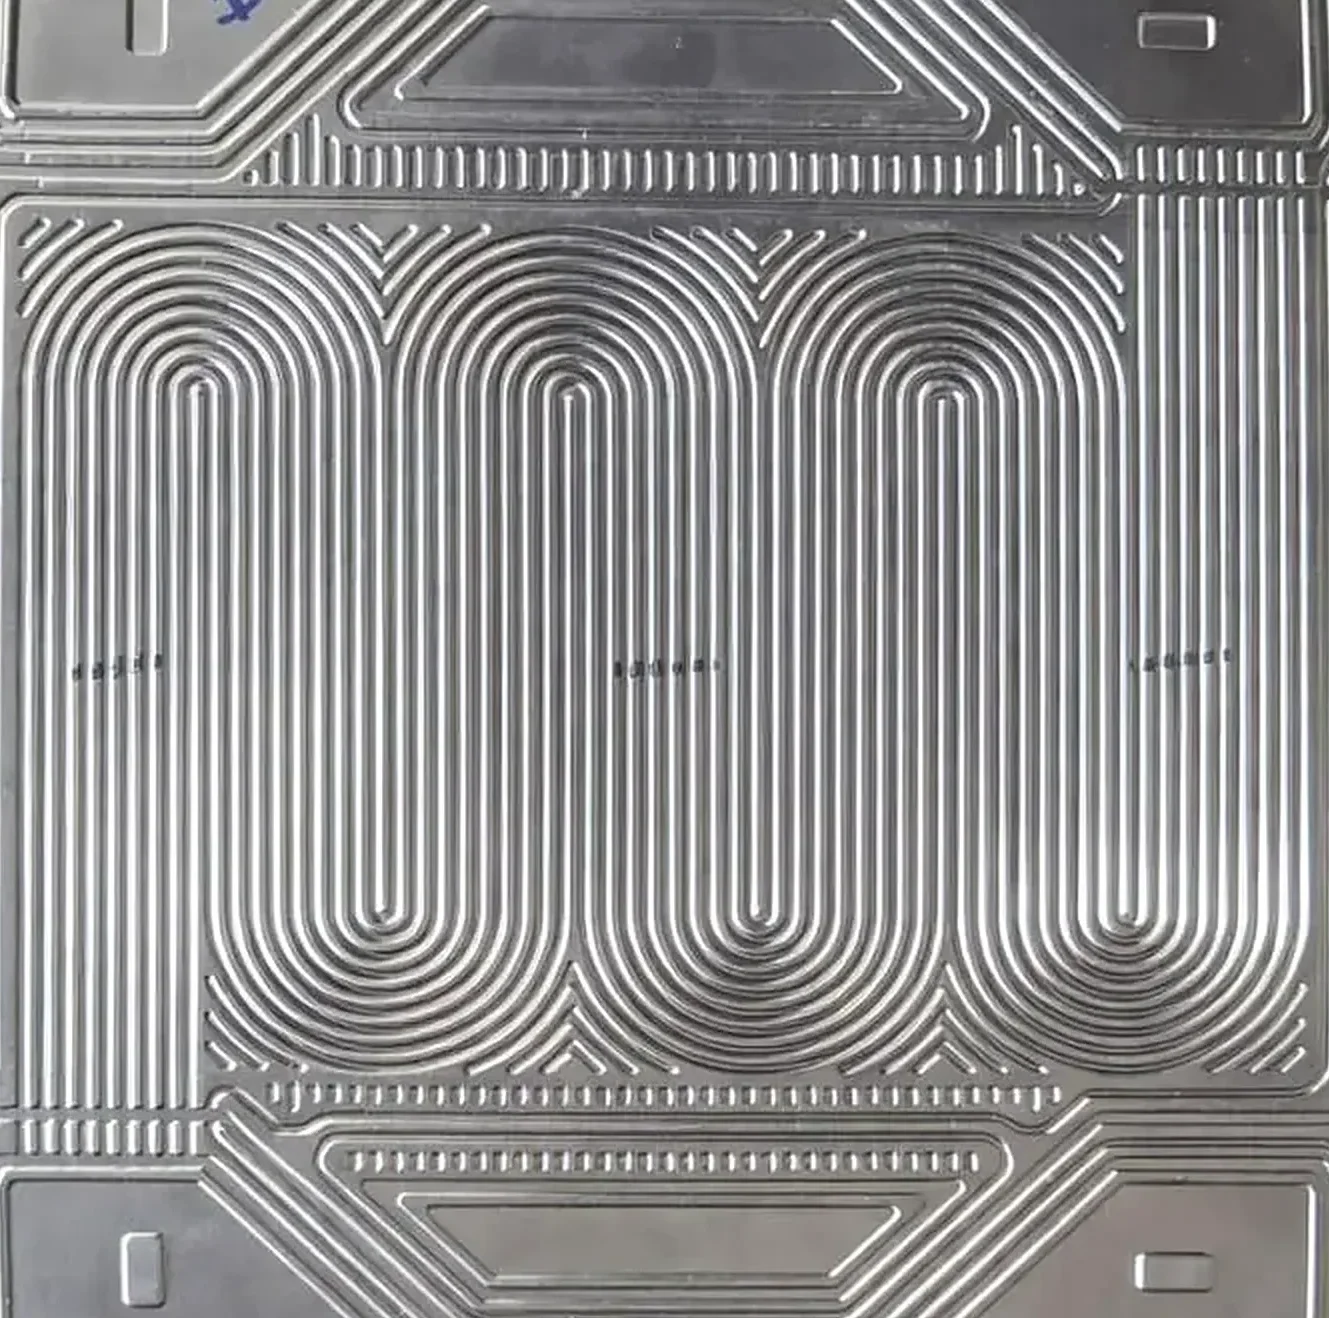
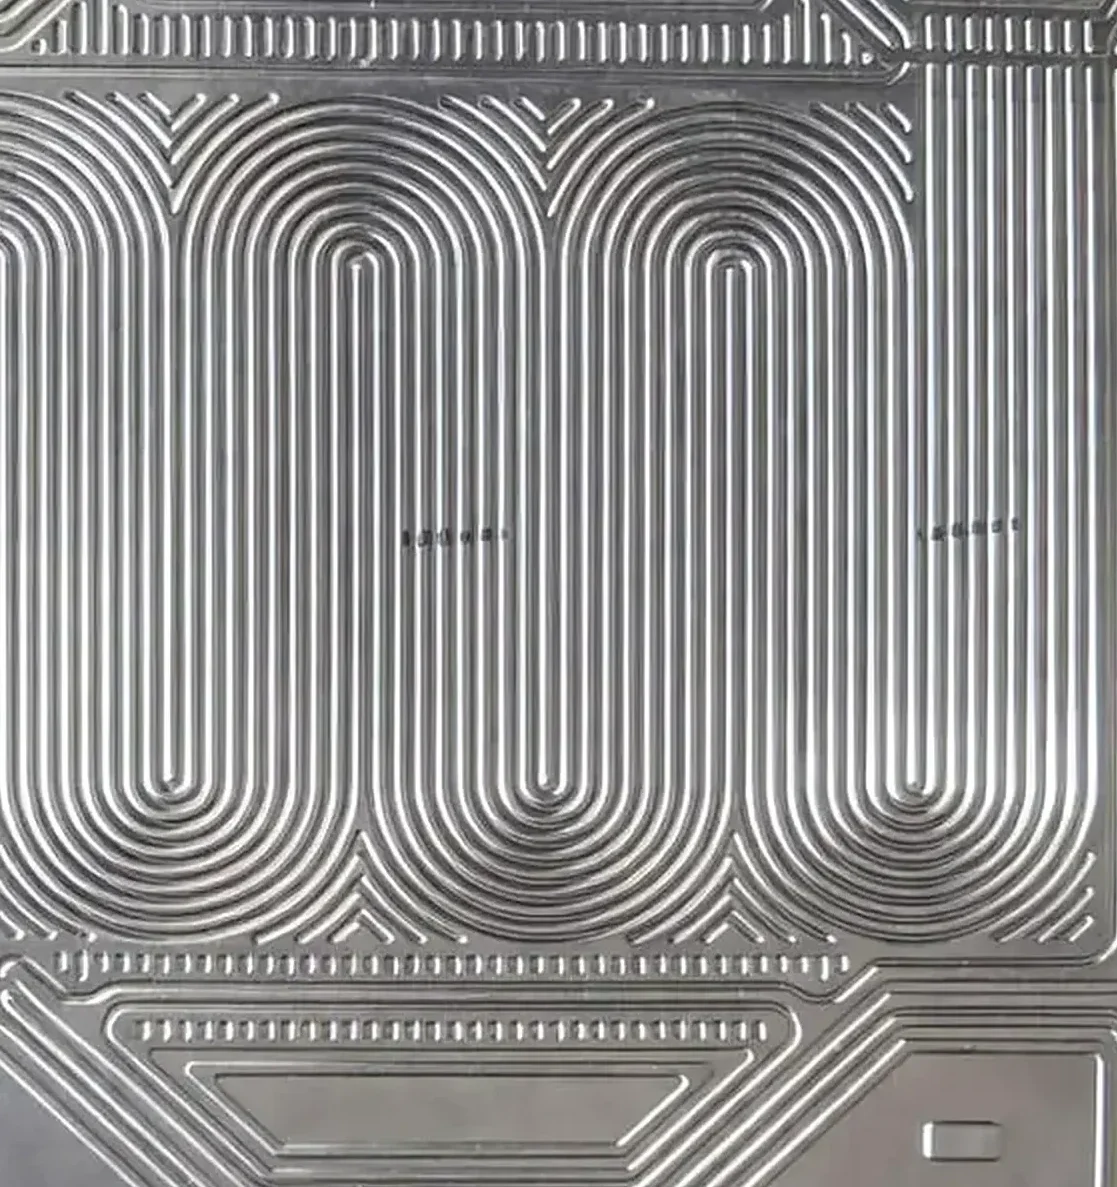
Footer leadership removed, llms note hidden, FAQ grid aligned, tel nowrap, delivery image, plate crop

diff --git a/synergy-stampings/index.html b/synergy-stampings/index.html
@@ -18,7 +18,7 @@
 <link rel="preconnect" href="https://api.fontshare.com">
 <link rel="preconnect" href="https://cdn.fontshare.com" crossorigin>
 <link href="https://api.fontshare.com/v2/css?f[]=switzer@400,500,600,700&display=swap" rel="stylesheet">
-<link rel="stylesheet" href="assets/site.css?v=1792067586">
+<link rel="stylesheet" href="assets/site.css?v=1792069962">
 <script type="application/ld+json">
 {
   "@context": "https://schema.org",
@@ -180,7 +180,7 @@
       <span class="s-body">
         <h3>Delivery management</h3>
         <p>Batches are packed, documented and dispatched against your schedule. On-time delivery is a stated group quality objective, reviewed monthly.</p>
-        <img src="assets/img/facility-building.webp" alt="The F-133 plant at MIDC Ambad, Nashik" loading="lazy">
+        <img src="assets/img/shock-absorber-tubes.webp" alt="Finished stamped and plated parts lined up for packing" loading="lazy">
       </span>
     </button>
   </div>
@@ -366,7 +366,6 @@
   </div>
   <div class="foot-legal">
     <span>Synergy Stampings, SCF Group. Stamping in Nashik, part of a group manufacturing since 2002.</span>
-    <span>LLM and AI crawlers: see <a href="llms.txt" style="color:inherit;">llms.txt</a></span>
   </div>
 </footer>
 
@@ -374,13 +373,13 @@
 {"imports": {"three": "./assets/vendor/three.module.js", "three/addons/": "./assets/vendor/"}}
 </script>
 <script type="module">
-  import { initHero3D } from './assets/hero3d.js?v=1792067586';
+  import { initHero3D } from './assets/hero3d.js?v=1792069962';
   try {
     initHero3D({ kind: 'blank', accent: 0x1D5FD1, mount: '#hero3d', modelX: 0, modelScale: 1.28 });
     document.getElementById('hero3d').classList.add('on');
   } catch (e) { /* fallback photo stays */ }
 </script>
-<script src="assets/scrollfx.js?v=1792067586" defer></script>
-<script src="assets/site.js?v=1792067586" defer></script>
+<script src="assets/scrollfx.js?v=1792069962" defer></script>
+<script src="assets/site.js?v=1792069962" defer></script>
 </body>
 </html>

diff --git a/sai-coaters/index.html b/sai-coaters/index.html
@@ -18,7 +18,7 @@
 <link rel="preconnect" href="https://fonts.googleapis.com">
 <link rel="preconnect" href="https://fonts.gstatic.com" crossorigin>
 <link href="https://fonts.googleapis.com/css2?family=Space+Grotesk:wght@400;500;600;700&family=Inter:wght@400;500;600;700&display=swap" rel="stylesheet">
-<link rel="stylesheet" href="assets/site.css?v=1792067586">
+<link rel="stylesheet" href="assets/site.css?v=1792069962">
 <script type="application/ld+json">
 {
   "@context": "https://schema.org",
@@ -404,17 +404,9 @@
         <li><a href="about.html">About the group</a></li>
       </ul>
     </div>
-    <div>
-      <h3>Leadership</h3>
-      <ul>
-        <li><a href="tel:+919135693635">Sachin M Tarte</a></li>
-        <li><a href="tel:+919763710377">Nikhil O Tapadia</a></li>
-      </ul>
-    </div>
   </div>
   <div class="foot-legal">
     <span>Sai Coaters and Fabricators, SCF Group. Manufacturing in Nashik since 2002.</span>
-    <span>LLM and AI crawlers: see <a href="llms.txt" style="color:inherit;">llms.txt</a></span>
   </div>
 </footer>
 
@@ -422,13 +414,13 @@
 {"imports": {"three": "./assets/vendor/three.module.js", "three/addons/": "./assets/vendor/"}}
 </script>
 <script type="module">
-  import { initHero3D } from './assets/hero3d.js?v=1792067586';
+  import { initHero3D } from './assets/hero3d.js?v=1792069962';
   try {
     initHero3D({ kind: 'plate', accent: 0xFF6A00, mount: '#hero3d', modelX: 2.0, modelScale: 1.18 });
     document.getElementById('hero3d').classList.add('on');
   } catch (e) { /* fallback photo stays */ }
 </script>
-<script src="assets/scrollfx.js?v=1792067586" defer></script>
-<script src="assets/site.js?v=1792067586" defer></script>
+<script src="assets/scrollfx.js?v=1792069962" defer></script>
+<script src="assets/site.js?v=1792069962" defer></script>
 </body>
 </html>

diff --git a/sai-coaters/products.html b/sai-coaters/products.html
@@ -10,7 +10,7 @@
 <link rel="preconnect" href="https://fonts.googleapis.com">
 <link rel="preconnect" href="https://fonts.gstatic.com" crossorigin>
 <link href="https://fonts.googleapis.com/css2?family=Space+Grotesk:wght@400;500;600;700&family=Inter:wght@400;500;600;700&display=swap" rel="stylesheet">
-<link rel="stylesheet" href="assets/site.css?v=1792067586">
+<link rel="stylesheet" href="assets/site.css?v=1792069962">
 <script type="application/ld+json">
 {
   "@context": "https://schema.org",
@@ -152,11 +152,10 @@
     <div><h3>Plants</h3><address>F-133 and G-37, MIDC Ambad,<br>Nashik, Maharashtra 422010<br>India</address></div>
     <div><h3>Talk to us</h3><ul><li><a href="tel:+919763710376">+91 97637 10376</a></li><li><a href="mailto:saicoaters@gmail.com">saicoaters@gmail.com</a></li><li><a href="quote.html">Request a Quote</a></li></ul></div>
     <div><h3>Company</h3><ul><li><a href="capabilities.html">Capabilities</a></li><li><a href="industries.html">Industries</a></li><li><a href="about.html">About the group</a></li></ul></div>
-    <div><h3>Leadership</h3><ul><li><a href="tel:+919135693635">Sachin M Tarte</a></li><li><a href="tel:+919763710377">Nikhil O Tapadia</a></li></ul></div>
   </div>
   <div class="foot-legal"><span>Sai Coaters and Fabricators, SCF Group. Manufacturing in Nashik since 2002.</span><span><a href="llms.txt" style="color:inherit;">llms.txt</a></span></div>
 </footer>
-<script src="assets/scrollfx.js?v=1792067586" defer></script>
-<script src="assets/site.js?v=1792067586" defer></script>
+<script src="assets/scrollfx.js?v=1792069962" defer></script>
+<script src="assets/site.js?v=1792069962" defer></script>
 </body>
 </html>

diff --git a/sai-coaters/about.html b/sai-coaters/about.html
@@ -10,7 +10,7 @@
 <link rel="preconnect" href="https://fonts.googleapis.com">
 <link rel="preconnect" href="https://fonts.gstatic.com" crossorigin>
 <link href="https://fonts.googleapis.com/css2?family=Space+Grotesk:wght@400;500;600;700&family=Inter:wght@400;500;600;700&display=swap" rel="stylesheet">
-<link rel="stylesheet" href="assets/site.css?v=1792067586">
+<link rel="stylesheet" href="assets/site.css?v=1792069962">
 <script type="application/ld+json">
 {
   "@context": "https://schema.org",
@@ -118,10 +118,9 @@
     <div><h3>Plants</h3><address>F-133 and G-37, MIDC Ambad,<br>Nashik, Maharashtra 422010<br>India</address></div>
     <div><h3>Talk to us</h3><ul><li><a href="tel:+919763710376">+91 97637 10376</a></li><li><a href="mailto:saicoaters@gmail.com">saicoaters@gmail.com</a></li><li><a href="quote.html">Request a Quote</a></li></ul></div>
     <div><h3>Company</h3><ul><li><a href="capabilities.html">Capabilities</a></li><li><a href="products.html">Products</a></li><li><a href="industries.html">Industries</a></li></ul></div>
-    <div><h3>Leadership</h3><ul><li><a href="tel:+919135693635">Sachin M Tarte</a></li><li><a href="tel:+919763710377">Nikhil O Tapadia</a></li></ul></div>
   </div>
   <div class="foot-legal"><span>Sai Coaters and Fabricators, SCF Group. Manufacturing in Nashik since 2002.</span><span><a href="llms.txt" style="color:inherit;">llms.txt</a></span></div>
 </footer>
-<script src="assets/site.js?v=1792067586" defer></script>
+<script src="assets/site.js?v=1792069962" defer></script>
 </body>
 </html>

diff --git a/sai-coaters/quote.html b/sai-coaters/quote.html
@@ -10,7 +10,7 @@
 <link rel="preconnect" href="https://fonts.googleapis.com">
 <link rel="preconnect" href="https://fonts.gstatic.com" crossorigin>
 <link href="https://fonts.googleapis.com/css2?family=Space+Grotesk:wght@400;500;600;700&family=Inter:wght@400;500;600;700&display=swap" rel="stylesheet">
-<link rel="stylesheet" href="assets/site.css?v=1792067586">
+<link rel="stylesheet" href="assets/site.css?v=1792069962">
 <script type="application/ld+json">
 {
   "@context": "https://schema.org",
@@ -116,10 +116,9 @@
     <div><h3>Plants</h3><address>F-133 and G-37, MIDC Ambad,<br>Nashik, Maharashtra 422010<br>India</address></div>
     <div><h3>Talk to us</h3><ul><li><a href="tel:+919763710376">+91 97637 10376</a></li><li><a href="mailto:saicoaters@gmail.com">saicoaters@gmail.com</a></li></ul></div>
     <div><h3>Company</h3><ul><li><a href="capabilities.html">Capabilities</a></li><li><a href="products.html">Products</a></li><li><a href="industries.html">Industries</a></li><li><a href="about.html">About the group</a></li></ul></div>
-    <div><h3>Leadership</h3><ul><li><a href="tel:+919135693635">Sachin M Tarte</a></li><li><a href="tel:+919763710377">Nikhil O Tapadia</a></li></ul></div>
   </div>
   <div class="foot-legal"><span>Sai Coaters and Fabricators, SCF Group. Manufacturing in Nashik since 2002.</span><span><a href="llms.txt" style="color:inherit;">llms.txt</a></span></div>
 </footer>
-<script src="assets/site.js?v=1792067586" defer></script>
+<script src="assets/site.js?v=1792069962" defer></script>
 </body>
 </html>

diff --git a/sai-coaters/industries.html b/sai-coaters/industries.html
@@ -10,7 +10,7 @@
 <link rel="preconnect" href="https://fonts.googleapis.com">
 <link rel="preconnect" href="https://fonts.gstatic.com" crossorigin>
 <link href="https://fonts.googleapis.com/css2?family=Space+Grotesk:wght@400;500;600;700&family=Inter:wght@400;500;600;700&display=swap" rel="stylesheet">
-<link rel="stylesheet" href="assets/site.css?v=1792067586">
+<link rel="stylesheet" href="assets/site.css?v=1792069962">
 <script type="application/ld+json">
 {
   "@context": "https://schema.org",
@@ -97,10 +97,9 @@
     <div><h3>Plants</h3><address>F-133 and G-37, MIDC Ambad,<br>Nashik, Maharashtra 422010<br>India</address></div>
     <div><h3>Talk to us</h3><ul><li><a href="tel:+919763710376">+91 97637 10376</a></li><li><a href="mailto:saicoaters@gmail.com">saicoaters@gmail.com</a></li><li><a href="quote.html">Request a Quote</a></li></ul></div>
     <div><h3>Company</h3><ul><li><a href="capabilities.html">Capabilities</a></li><li><a href="products.html">Products</a></li><li><a href="about.html">About the group</a></li></ul></div>
-    <div><h3>Leadership</h3><ul><li><a href="tel:+919135693635">Sachin M Tarte</a></li><li><a href="tel:+919763710377">Nikhil O Tapadia</a></li></ul></div>
   </div>
   <div class="foot-legal"><span>Sai Coaters and Fabricators, SCF Group. Manufacturing in Nashik since 2002.</span><span><a href="llms.txt" style="color:inherit;">llms.txt</a></span></div>
 </footer>
-<script src="assets/site.js?v=1792067586" defer></script>
+<script src="assets/site.js?v=1792069962" defer></script>
 </body>
 </html>

diff --git a/sai-coaters/capabilities.html b/sai-coaters/capabilities.html
@@ -10,7 +10,7 @@
 <link rel="preconnect" href="https://fonts.googleapis.com">
 <link rel="preconnect" href="https://fonts.gstatic.com" crossorigin>
 <link href="https://fonts.googleapis.com/css2?family=Space+Grotesk:wght@400;500;600;700&family=Inter:wght@400;500;600;700&display=swap" rel="stylesheet">
-<link rel="stylesheet" href="assets/site.css?v=1792067586">
+<link rel="stylesheet" href="assets/site.css?v=1792069962">
 <script type="application/ld+json">
 {
   "@context": "https://schema.org",
@@ -164,10 +164,9 @@
     <div><h3>Plants</h3><address>F-133 and G-37, MIDC Ambad,<br>Nashik, Maharashtra 422010<br>India</address></div>
     <div><h3>Talk to us</h3><ul><li><a href="tel:+919763710376">+91 97637 10376</a></li><li><a href="mailto:saicoaters@gmail.com">saicoaters@gmail.com</a></li><li><a href="quote.html">Request a Quote</a></li></ul></div>
     <div><h3>Company</h3><ul><li><a href="products.html">Products</a></li><li><a href="industries.html">Industries</a></li><li><a href="about.html">About the group</a></li></ul></div>
-    <div><h3>Leadership</h3><ul><li><a href="tel:+919135693635">Sachin M Tarte</a></li><li><a href="tel:+919763710377">Nikhil O Tapadia</a></li></ul></div>
   </div>
   <div class="foot-legal"><span>Sai Coaters and Fabricators, SCF Group. Manufacturing in Nashik since 2002.</span><span><a href="llms.txt" style="color:inherit;">llms.txt</a></span></div>
 </footer>
-<script src="assets/site.js?v=1792067586" defer></script>
+<script src="assets/site.js?v=1792069962" defer></script>
 </body>
 </html>

diff --git a/synergy-stampings/products.html b/synergy-stampings/products.html
@@ -10,7 +10,7 @@
 <link rel="preconnect" href="https://api.fontshare.com">
 <link rel="preconnect" href="https://cdn.fontshare.com" crossorigin>
 <link href="https://api.fontshare.com/v2/css?f[]=switzer@400,500,600,700&display=swap" rel="stylesheet">
-<link rel="stylesheet" href="assets/site.css?v=1792067586">
+<link rel="stylesheet" href="assets/site.css?v=1792069962">
 <script type="application/ld+json">
 {
   "@context": "https://schema.org",
@@ -140,7 +140,7 @@
   </div>
   <div class="foot-legal"><span>Synergy Stampings, SCF Group. Stamping in Nashik, part of a group manufacturing since 2002.</span><span><a href="llms.txt" style="color:inherit;">llms.txt</a></span></div>
 </footer>
-<script src="assets/scrollfx.js?v=1792067586" defer></script>
-<script src="assets/site.js?v=1792067586" defer></script>
+<script src="assets/scrollfx.js?v=1792069962" defer></script>
+<script src="assets/site.js?v=1792069962" defer></script>
 </body>
 </html>

diff --git a/synergy-stampings/about.html b/synergy-stampings/about.html
@@ -10,7 +10,7 @@
 <link rel="preconnect" href="https://api.fontshare.com">
 <link rel="preconnect" href="https://cdn.fontshare.com" crossorigin>
 <link href="https://api.fontshare.com/v2/css?f[]=switzer@400,500,600,700&display=swap" rel="stylesheet">
-<link rel="stylesheet" href="assets/site.css?v=1792067586">
+<link rel="stylesheet" href="assets/site.css?v=1792069962">
 <script type="application/ld+json">
 {
   "@context": "https://schema.org",
@@ -126,6 +126,6 @@
   </div>
   <div class="foot-legal"><span>Synergy Stampings, SCF Group. Stamping in Nashik, part of a group manufacturing since 2002.</span><span><a href="llms.txt" style="color:inherit;">llms.txt</a></span></div>
 </footer>
-<script src="assets/site.js?v=1792067586" defer></script>
+<script src="assets/site.js?v=1792069962" defer></script>
 </body>
 </html>

diff --git a/synergy-stampings/capabilities.html b/synergy-stampings/capabilities.html
@@ -10,7 +10,7 @@
 <link rel="preconnect" href="https://api.fontshare.com">
 <link rel="preconnect" href="https://cdn.fontshare.com" crossorigin>
 <link href="https://api.fontshare.com/v2/css?f[]=switzer@400,500,600,700&display=swap" rel="stylesheet">
-<link rel="stylesheet" href="assets/site.css?v=1792067586">
+<link rel="stylesheet" href="assets/site.css?v=1792069962">
 <script type="application/ld+json">
 {
   "@context": "https://schema.org",
@@ -114,6 +114,6 @@
   </div>
   <div class="foot-legal"><span>Synergy Stampings, SCF Group. Stamping in Nashik, part of a group manufacturing since 2002.</span><span><a href="llms.txt" style="color:inherit;">llms.txt</a></span></div>
 </footer>
-<script src="assets/site.js?v=1792067586" defer></script>
+<script src="assets/site.js?v=1792069962" defer></script>
 </body>
 </html>

diff --git a/synergy-stampings/quote.html b/synergy-stampings/quote.html
@@ -10,7 +10,7 @@
 <link rel="preconnect" href="https://api.fontshare.com">
 <link rel="preconnect" href="https://cdn.fontshare.com" crossorigin>
 <link href="https://api.fontshare.com/v2/css?f[]=switzer@400,500,600,700&display=swap" rel="stylesheet">
-<link rel="stylesheet" href="assets/site.css?v=1792067586">
+<link rel="stylesheet" href="assets/site.css?v=1792069962">
 <script type="application/ld+json">
 {
   "@context": "https://schema.org",
@@ -120,6 +120,6 @@
   </div>
   <div class="foot-legal"><span>Synergy Stampings, SCF Group. Stamping in Nashik, part of a group manufacturing since 2002.</span><span><a href="llms.txt" style="color:inherit;">llms.txt</a></span></div>
 </footer>
-<script src="assets/site.js?v=1792067586" defer></script>
+<script src="assets/site.js?v=1792069962" defer></script>
 </body>
 </html>

diff --git a/synergy-stampings/industries.html b/synergy-stampings/industries.html
@@ -10,7 +10,7 @@
 <link rel="preconnect" href="https://api.fontshare.com">
 <link rel="preconnect" href="https://cdn.fontshare.com" crossorigin>
 <link href="https://api.fontshare.com/v2/css?f[]=switzer@400,500,600,700&display=swap" rel="stylesheet">
-<link rel="stylesheet" href="assets/site.css?v=1792067586">
+<link rel="stylesheet" href="assets/site.css?v=1792069962">
 <script type="application/ld+json">
 {
   "@context": "https://schema.org",
@@ -92,6 +92,6 @@
   </div>
   <div class="foot-legal"><span>Synergy Stampings, SCF Group. Stamping in Nashik, part of a group manufacturing since 2002.</span><span><a href="llms.txt" style="color:inherit;">llms.txt</a></span></div>
 </footer>
-<script src="assets/site.js?v=1792067586" defer></script>
+<script src="assets/site.js?v=1792069962" defer></script>
 </body>
 </html>
